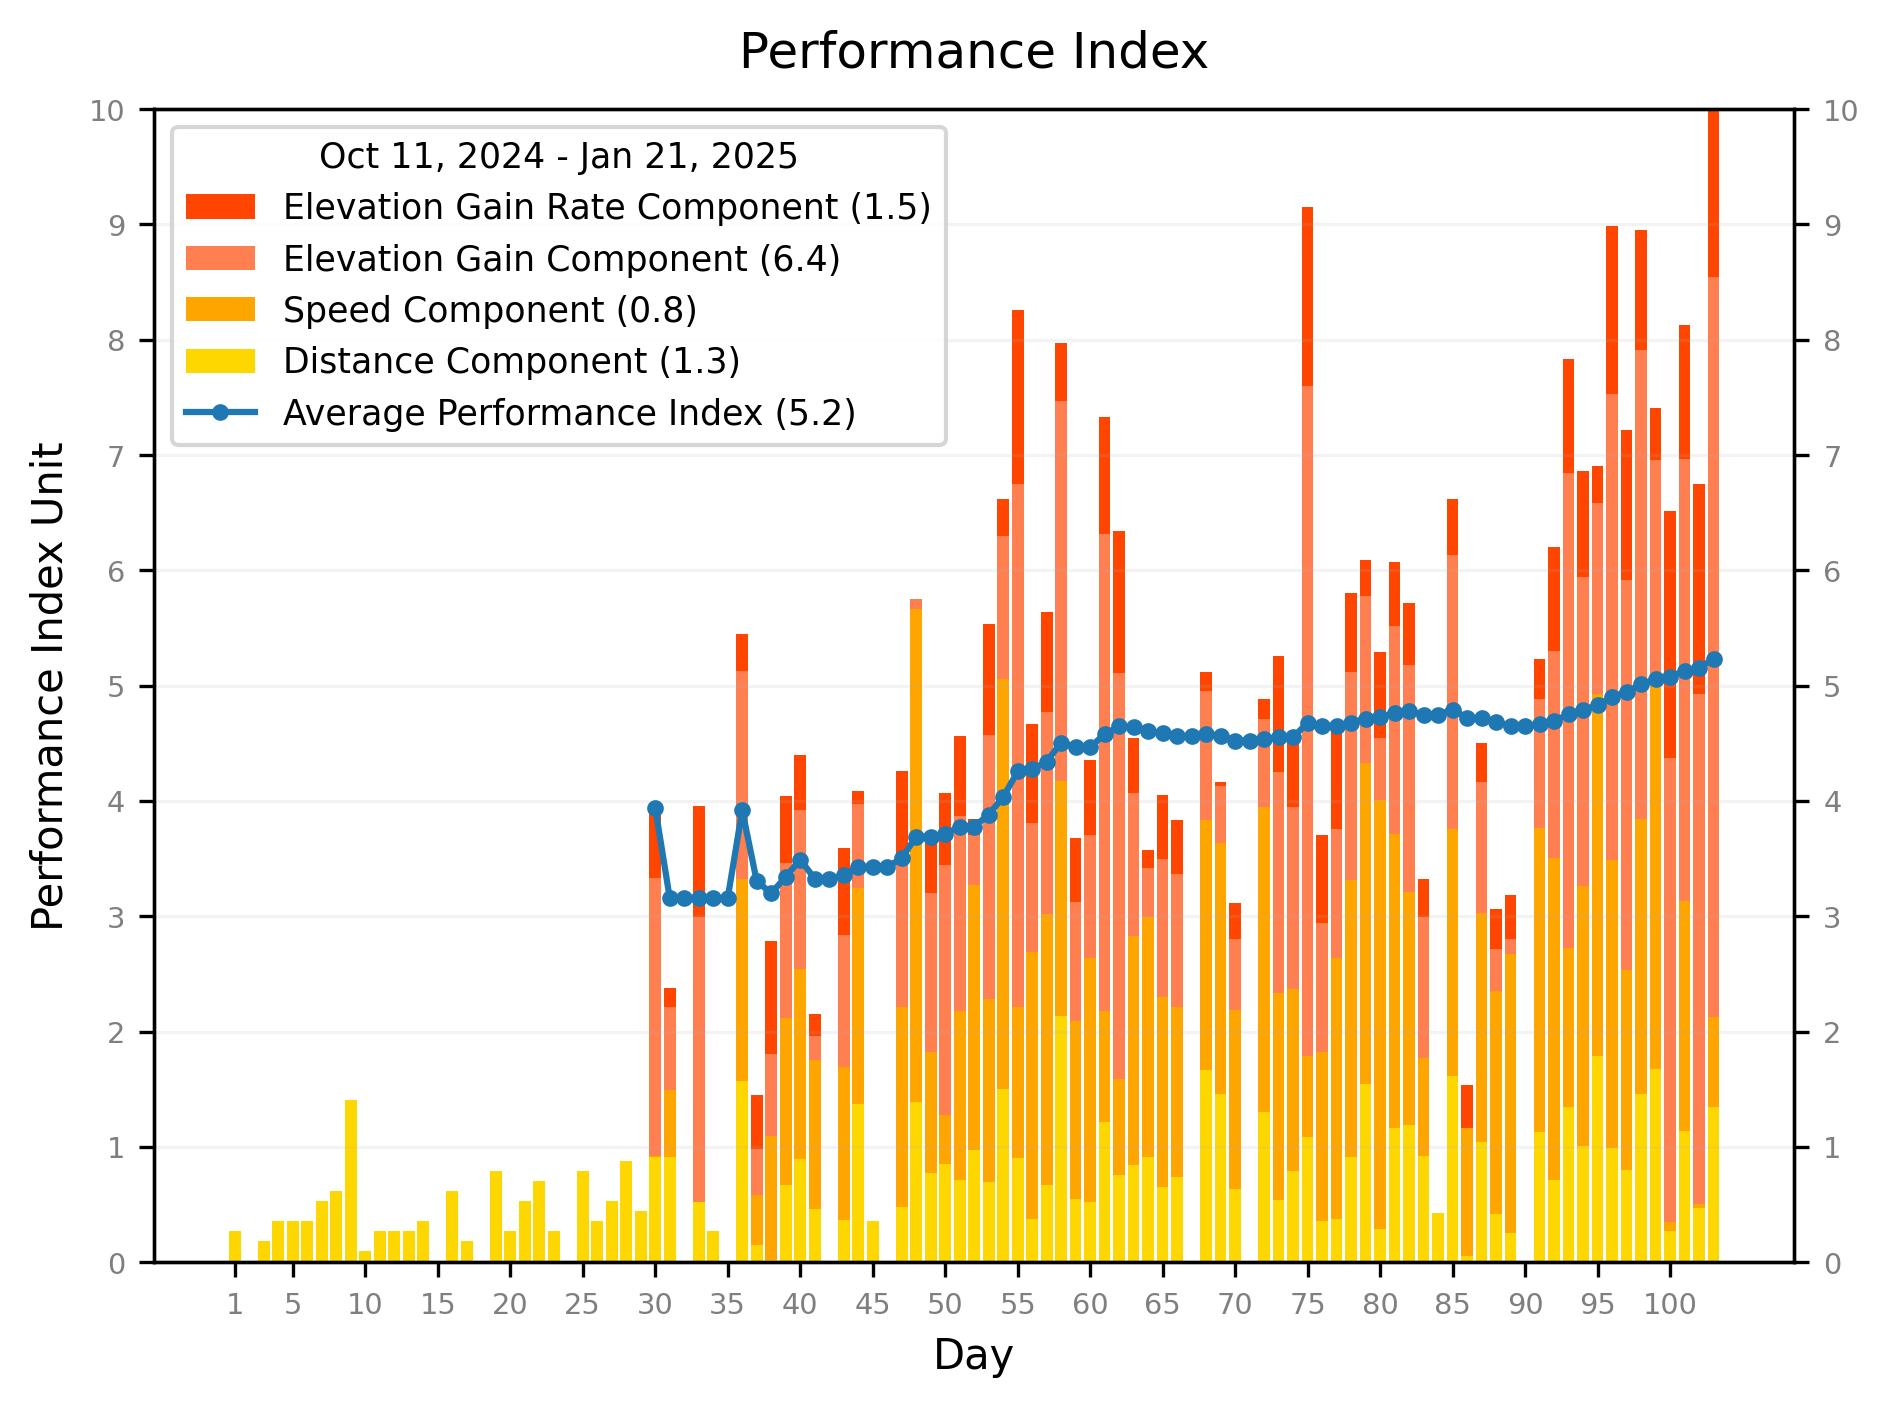
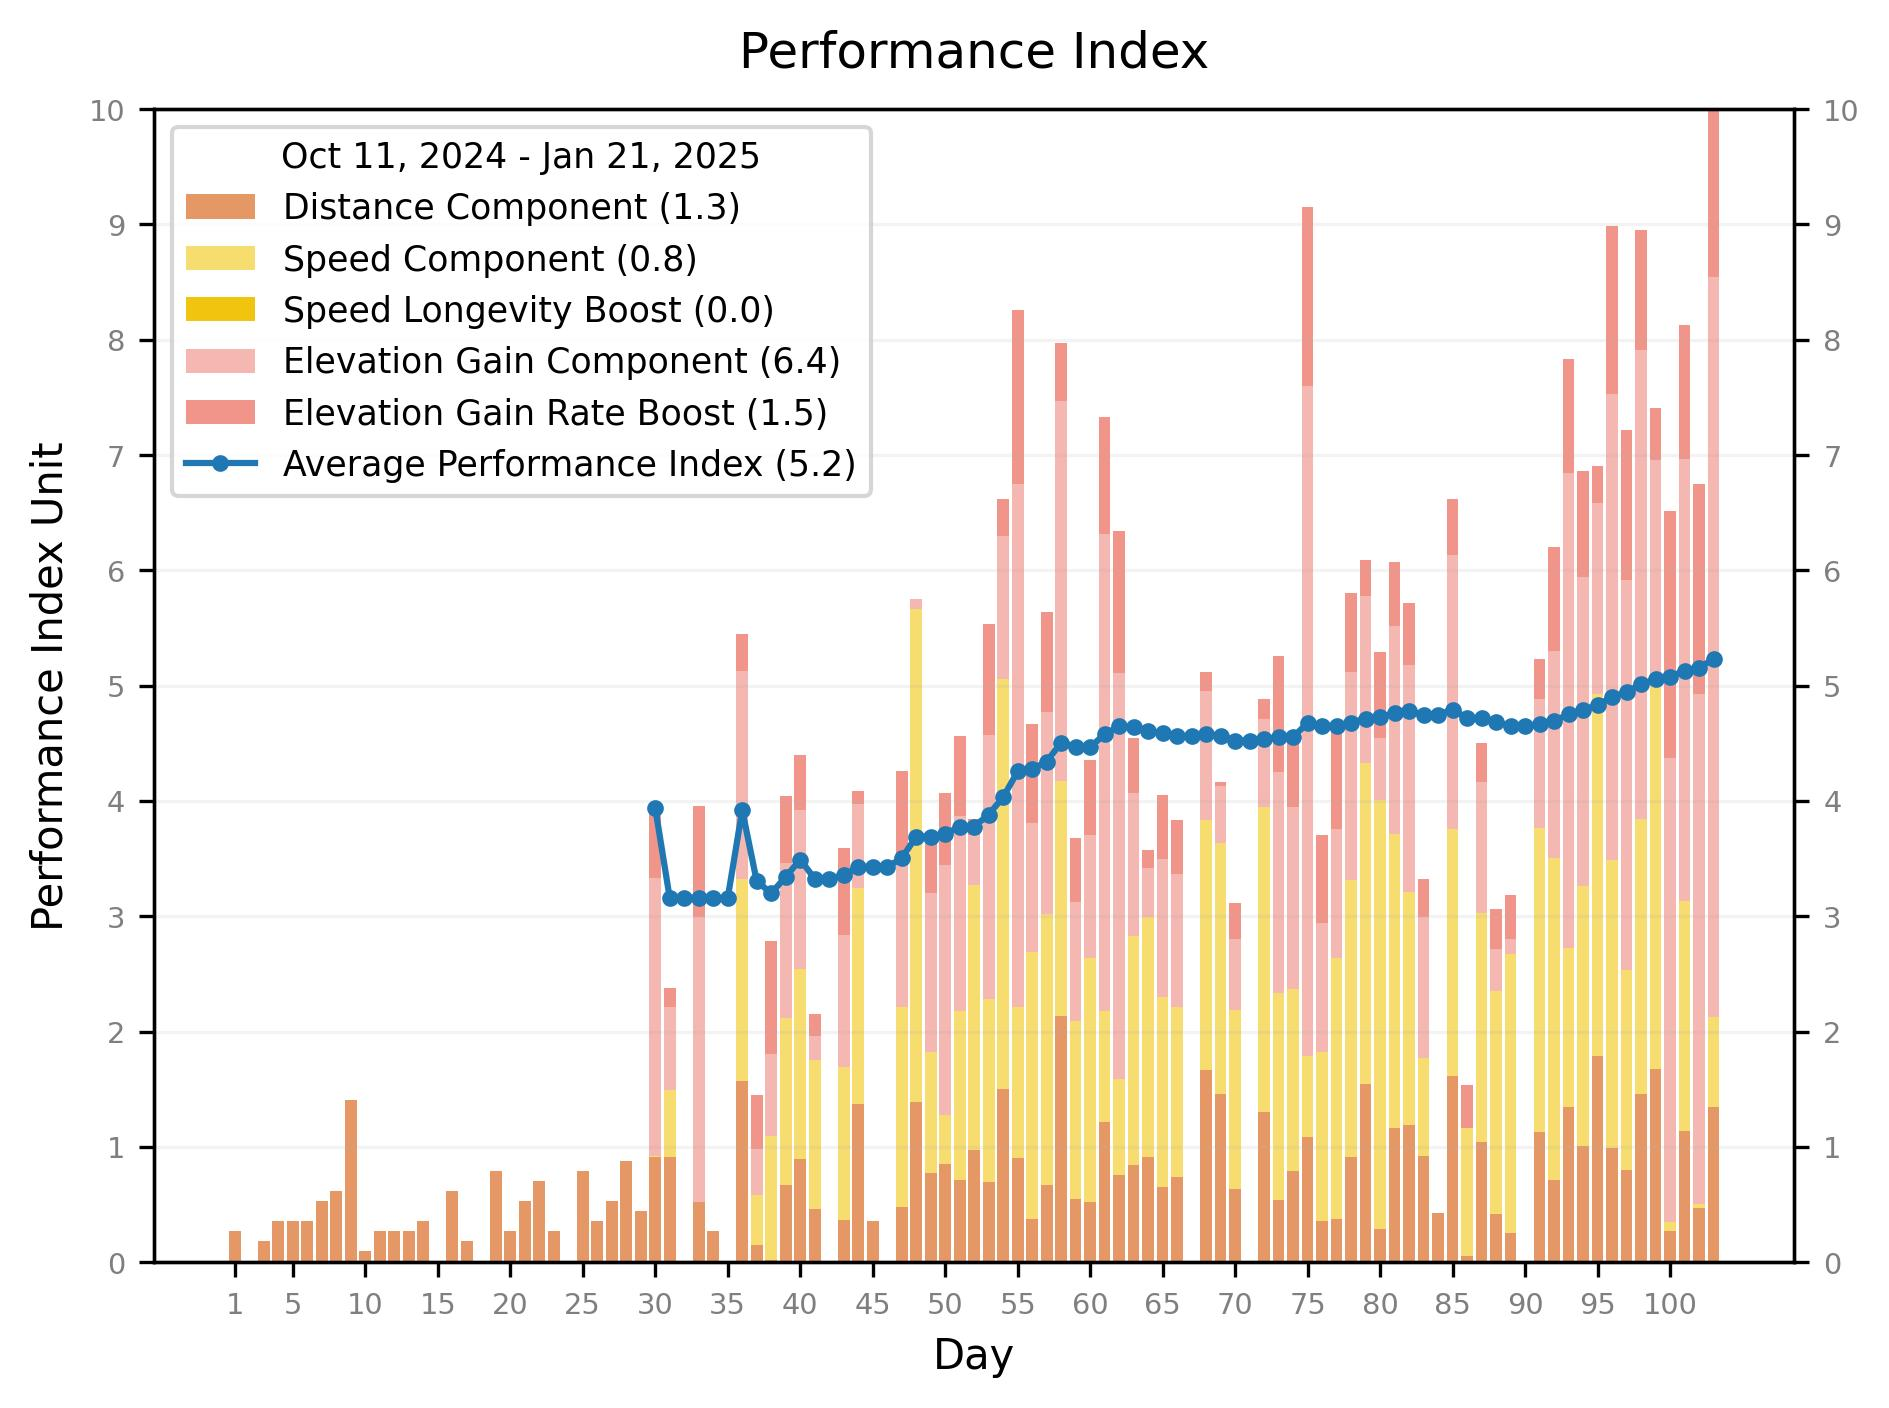
tweak performance index calculation

Changed region(s): [[0.1249, 0.0938, 0.937, 0.9062], [0.0937, 0.0938, 0.4997, 0.3438]]

diff --git a/src/biking/graph/performance.py b/src/biking/graph/performance.py
@@ -27,30 +27,34 @@ class PerformanceGraph(Graph):
     def performance_index(self):
         distance_y = self.stats["data"]["distance_per_day"]
         speed_y = self.stats["data"]["speed_per_day"]
-        elevation_y = self.stats["data"]["elevation_gain_per_day"]
         time_y = [d / s if s != 0 else 0 for d, s in zip(distance_y, speed_y)]
+        speed_time_y = [s * t for s, t in zip(speed_y, time_y)]
+        elevation_y = self.stats["data"]["elevation_gain_per_day"]
         elevation_rate_y = [e / t if t != 0 else 0 for e, t in zip(elevation_y, time_y)]
 
         d_factor = 1.0
         s_factor = 2.0
+        st_factor = 0
         e_factor = 3.0
         er_factor = 1.0
         max_pi_scale = 10.0
 
         distance = stats(distance_y)
         speed = stats(speed_y)
+        speed_time = stats(speed_time_y)
         elevation = stats(elevation_y)
         elevation_rate = stats(elevation_rate_y)
 
         new_low = 0
         distance_y = [(n - distance.min) / distance.range if n > distance.min else new_low for n in distance_y]
         speed_y = [(n - speed.min) / speed.range if n > speed.min else new_low for n in speed_y]
+        speed_time_y = [(n - speed_time.min) / speed_time.range if n > speed_time.min else new_low for n in speed_time_y]
         elevation_y = [(n - elevation.min) / elevation.range if n > elevation.min else new_low for n in elevation_y]
         elevation_rate_y = [(n - elevation_rate.min) / elevation_rate.range if n > elevation_rate.min else new_low for n in elevation_rate_y]
 
         performance_y = [
-            0 if s == 0 else (d * d_factor + s * s_factor + e * e_factor + er * er_factor)
-            for d, s, e, er in zip(distance_y, speed_y, elevation_y, elevation_rate_y)
+            0 if s == 0 else (d * d_factor + s * s_factor + st * st_factor + e * e_factor + er * er_factor)
+            for d, s, st, e, er in zip(distance_y, speed_y, speed_time_y, elevation_y, elevation_rate_y)
         ]
 
         max_pi = max(performance_y)
@@ -58,10 +62,11 @@ class PerformanceGraph(Graph):
 
         d_factor_y = [d * d_factor / max_pi * max_pi_scale for d in distance_y]
         s_factor_y = [s * s_factor / max_pi * max_pi_scale for s in speed_y]
+        st_factor_y = [st * st_factor / max_pi * max_pi_scale for st in speed_time_y]
         e_factor_y = [e * e_factor / max_pi * max_pi_scale for e in elevation_y]
         er_factor_y = [er * er_factor / max_pi * max_pi_scale for er in elevation_rate_y]
 
-        return performance_y, (d_factor_y, s_factor_y, e_factor_y, er_factor_y)
+        return performance_y, (d_factor_y, s_factor_y, st_factor_y, e_factor_y, er_factor_y)
 
     def avg_performance_index(self, performance_y):
         avg_performance_y = []
@@ -95,23 +100,33 @@ class PerformanceGraph(Graph):
         ax1.grid(axis="y", linestyle="-", alpha=0.15)
         self.add_scale(ax1, lower_limit, upper_limit, scale),
 
-        d_factor_y, s_factor_y, e_factor_y, er_factor_y = factors_y
+        d_factor_y, s_factor_y, st_factor_y, e_factor_y, er_factor_y = factors_y
 
-        bar = ax1.bar(x, er_factor_y, bottom=np.array(d_factor_y) + np.array(s_factor_y) + np.array(e_factor_y), color="orangered")
-        self.handles.append(bar)
-        self.labels.append(f"Elevation Gain Rate Component ({er_factor_y[-1]:0.1f})")
+        bottom_y = np.zeros_like(d_factor_y)
 
-        bar = ax1.bar(x, e_factor_y, bottom=np.array(d_factor_y) + np.array(s_factor_y), color="coral")
-        self.handles.append(bar)
-        self.labels.append(f"Elevation Gain Component ({e_factor_y[-1]:0.1f})")
-
-        bar = ax1.bar(x, s_factor_y, bottom=d_factor_y, color="orange")
-        self.handles.append(bar)
-        self.labels.append(f"Speed Component ({s_factor_y[-1]:0.1f})")
-
-        bar = ax1.bar(x, d_factor_y, color="gold")
+        bar = ax1.bar(x, d_factor_y, color="#e59866")
         self.handles.append(bar)
         self.labels.append(f"Distance Component ({d_factor_y[-1]:0.1f})")
+        bottom_y += np.array(d_factor_y)
+
+        bar = ax1.bar(x, s_factor_y, bottom=bottom_y, color="#f7dc6f")
+        self.handles.append(bar)
+        self.labels.append(f"Speed Component ({s_factor_y[-1]:0.1f})")
+        bottom_y += np.array(s_factor_y)
+
+        bar = ax1.bar(x, st_factor_y, bottom=bottom_y, color="#f1c40f")
+        self.handles.append(bar)
+        self.labels.append(f"Speed Longevity Boost ({st_factor_y[-1]:0.1f})")
+        bottom_y += np.array(st_factor_y)
+
+        bar = ax1.bar(x, e_factor_y, bottom=bottom_y, color="#f5b7b1")
+        self.handles.append(bar)
+        self.labels.append(f"Elevation Gain Component ({e_factor_y[-1]:0.1f})")
+        bottom_y += np.array(e_factor_y)
+
+        bar = ax1.bar(x, er_factor_y, bottom=bottom_y, color="#f1948a")
+        self.handles.append(bar)
+        self.labels.append(f"Elevation Gain Rate Boost ({er_factor_y[-1]:0.1f})")
 
         line, = ax1.plot(x, avg_y, color="tab:blue", marker="o", markersize=3)
         self.handles.append(line)

diff --git a/TODO.md b/TODO.md
@@ -1,7 +1,7 @@
 # TODO
 
 ### High Priority
-- Tweak the Performance Index calculation so high speed for a long time scores higher than the same speed for less time.
+- Tweak the Performance Index calculation so short, high-elevation gain rides with little flat land score as high as long, not-quite-as-high-elevation gain rides with more flat land.  The latter is scoring higher because of the higher speed achieved due to less elevation gain.
 
 ### Medium Priority
 - Make sure show_only_tracked_days still works.
